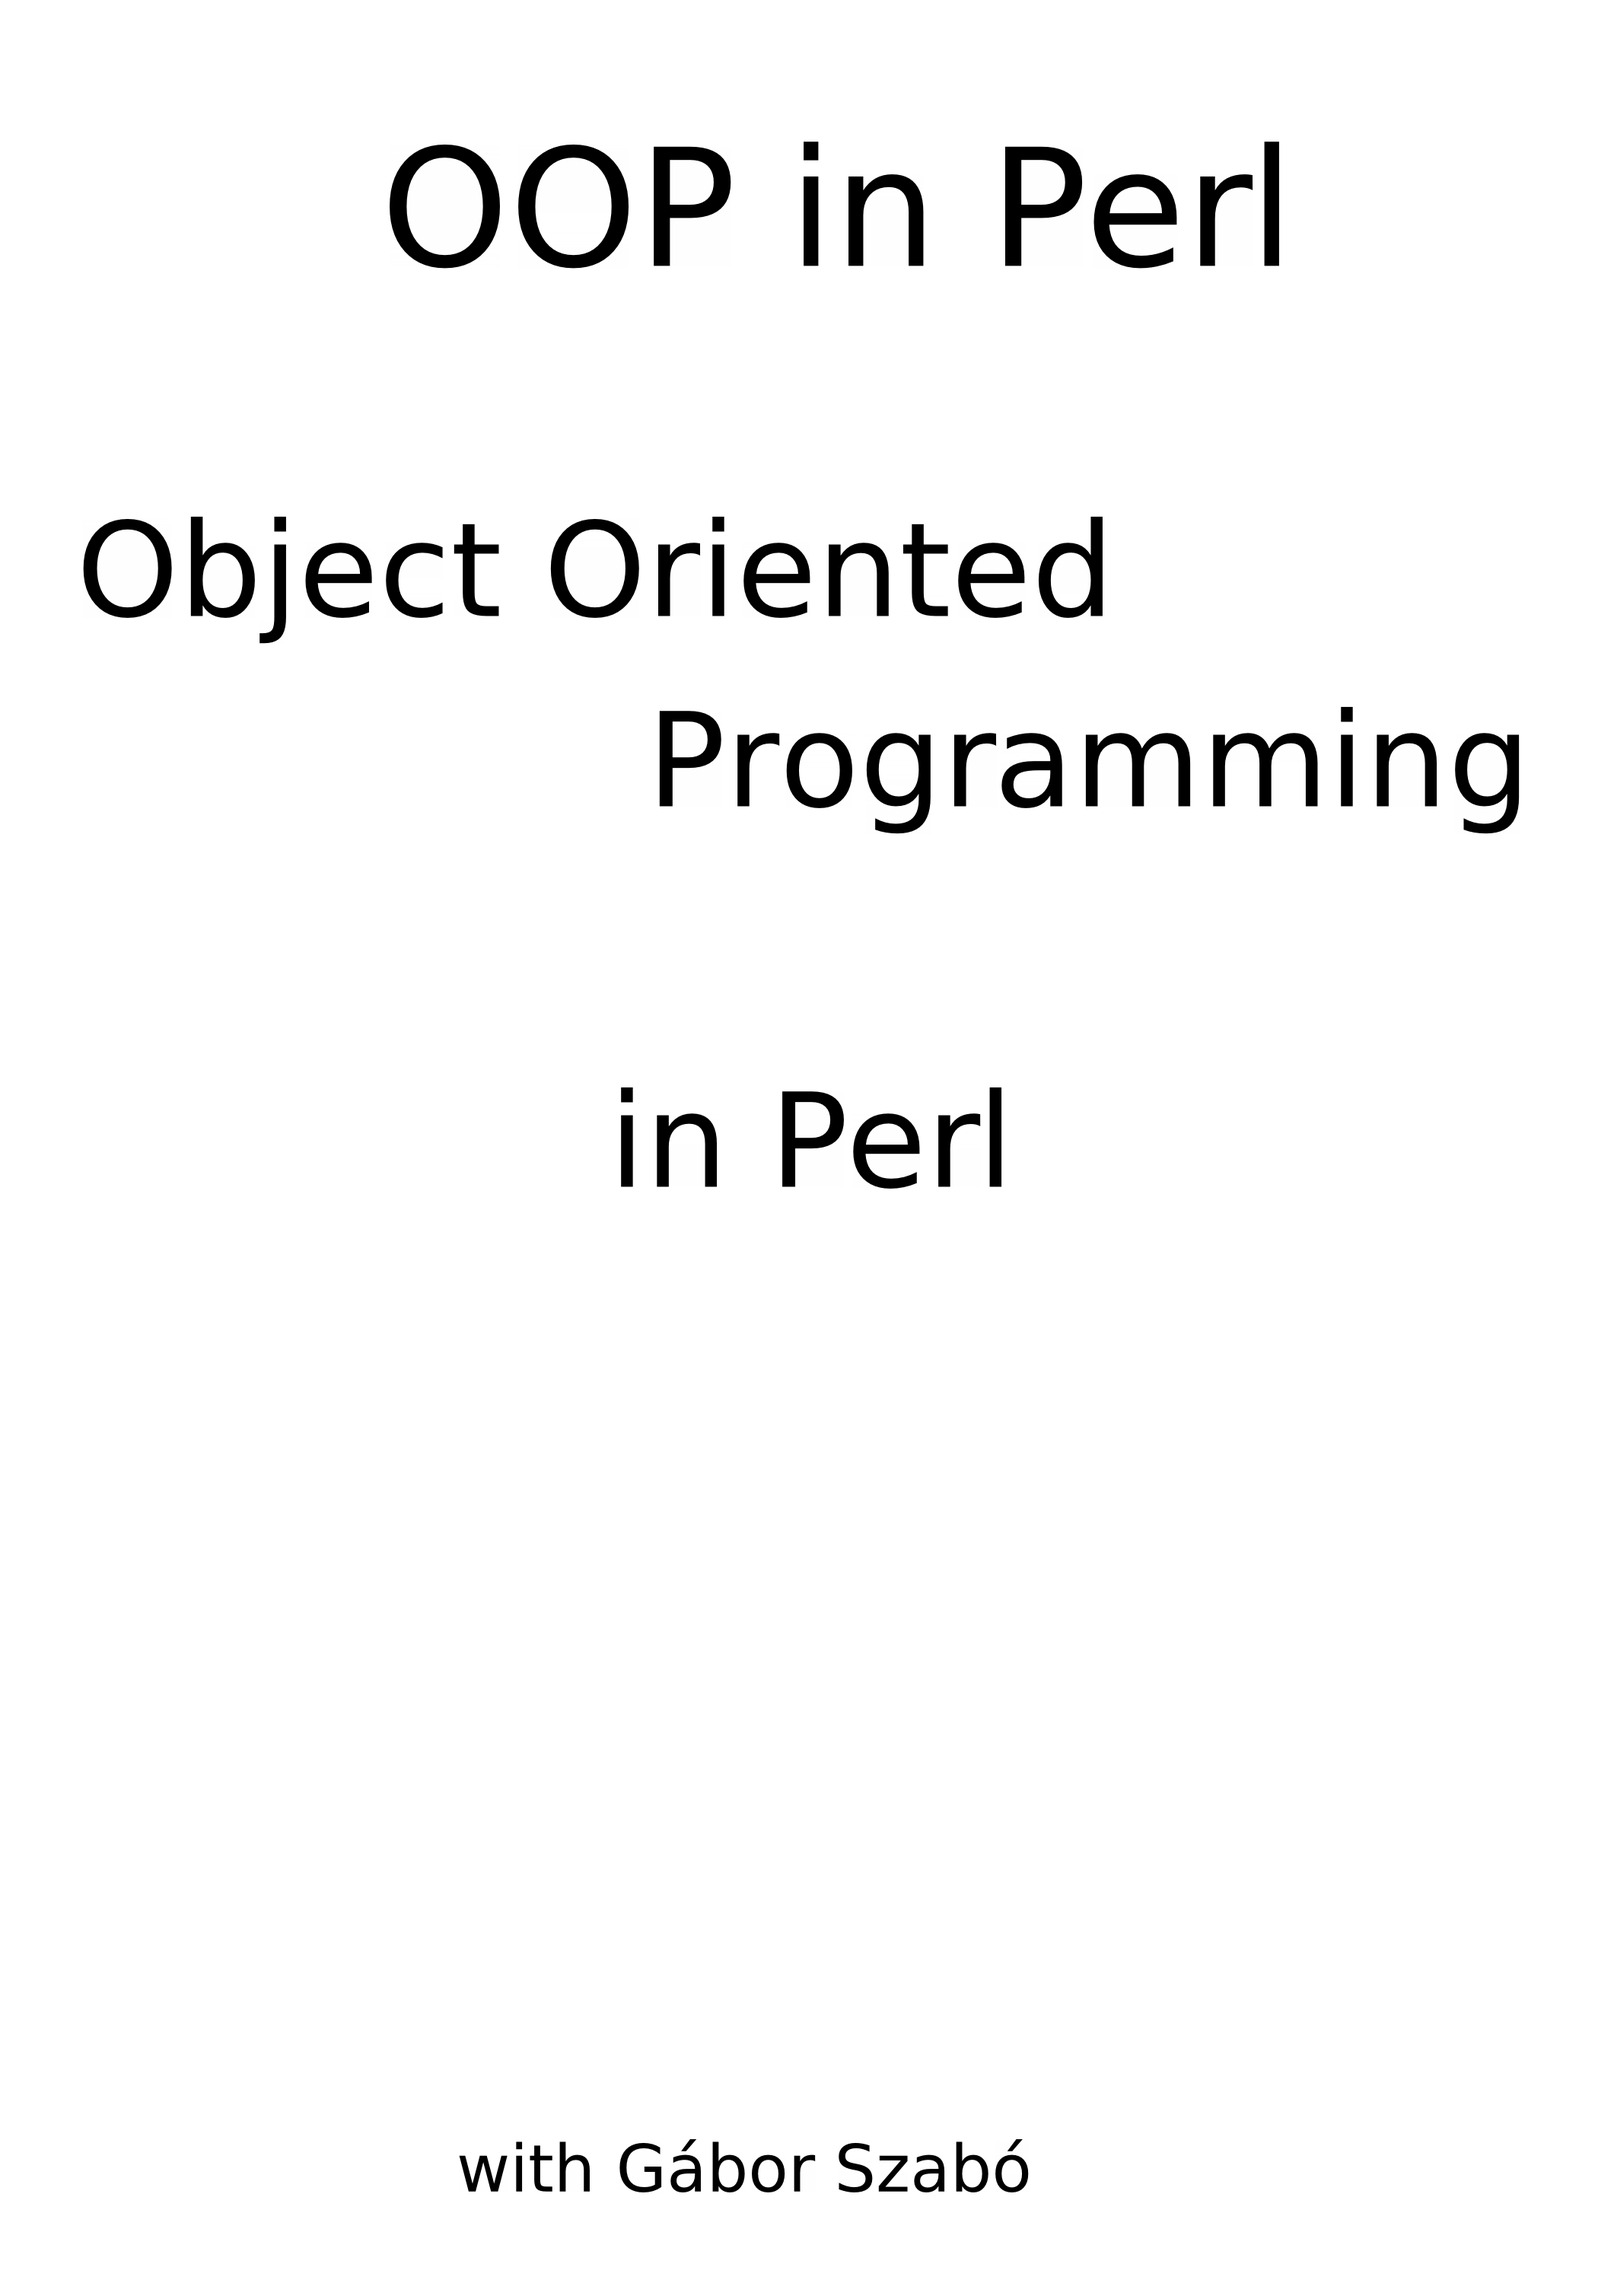
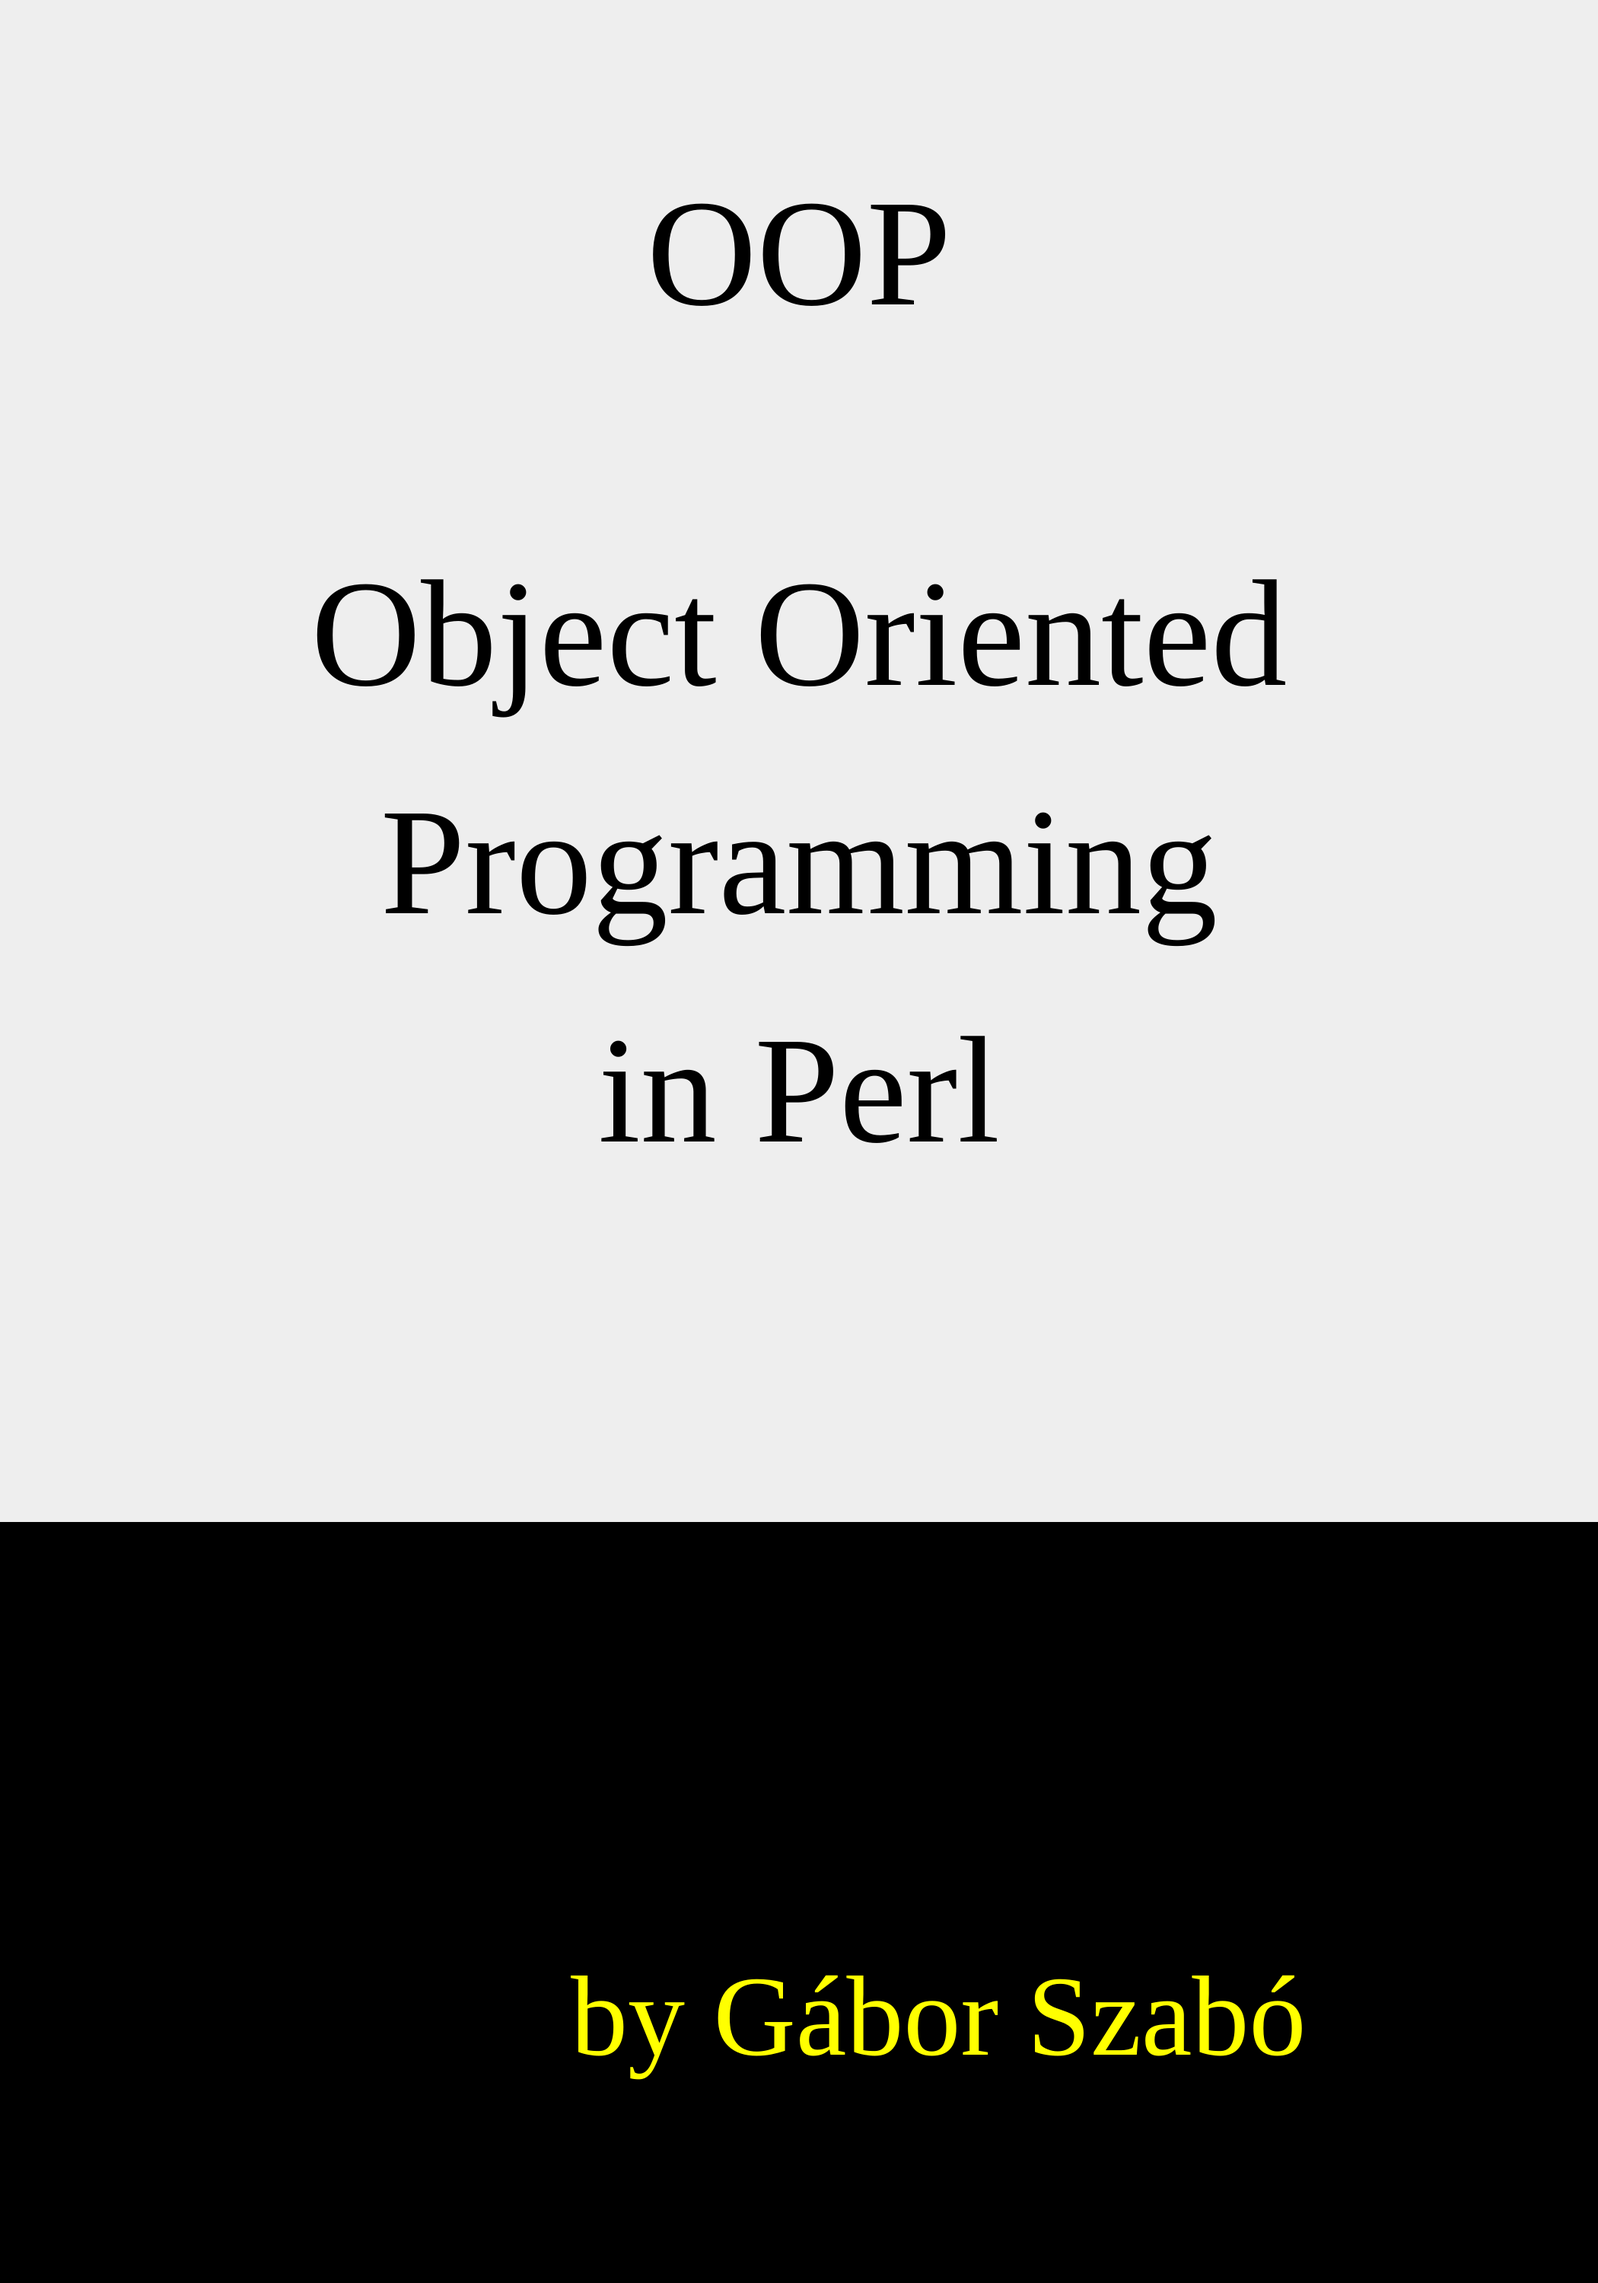
update book title pages

diff --git a/books/svg/src/shapes/image.md b/books/svg/src/shapes/image.md
@@ -1,0 +1,11 @@
+# Embed external image
+
+The `image` tag can be used to embed images. It supports the emebedding of other SVG files and PNG and JPEG images.
+
+Certain features do not work when using the `img` tag to display an SVG file, specifically the embedding of other images in the SVG file using the `image` tag that we'll see later. Using `object` solves this problem.
+
+<object data="../examples/embed-image.svg" type="image/svg+xml"></object>
+
+{% embed include file="src/examples/embed-image.svg" %}
+
+

diff --git a/books/svg/src/SUMMARY.md b/books/svg/src/SUMMARY.md
@@ -22,6 +22,8 @@
     - [Text with letters rotated](./shapes/text-rotated.md)
     - [Rotate the whole text with transform](./shapes/text-transformed.md)
 
+  - [Embed external image](./shapes/image.md)
+
   - [Rectangles](./shapes/rectangles.md)
   - [Square](./shapes/square.md)
   - [Ellipse](./shapes/ellipse.md)
@@ -48,3 +50,4 @@
 
 - [Book cover](./book-covers/index.md)
   - [Functional Programming in Python](./book-covers/python-functional-programming.md)
+  - [OOP in Perl](./book-covers/perl-oop.md)

diff --git a/books/svg/src/book-covers/python-functional-programming.md b/books/svg/src/book-covers/python-functional-programming.md
@@ -1,6 +1,7 @@
-# Book cover
+# Functional Programming in Python
 
-<object data="../examples/book-covers/python-functional-programming.svg" type="image/svg+xml"></object>
+
+![Functional programming in Python](../examples/book-covers/python-functional-programming.svg)
 
 {% embed include file="src/examples/book-covers/python-functional-programming.svg" %}
 

diff --git a/books/svg/src/book-covers/perl-oop.md b/books/svg/src/book-covers/perl-oop.md
@@ -1,0 +1,7 @@
+# OOP in Perl
+
+![OOP in Perl](../examples/book-covers/perl-oop.svg)
+
+{% embed include file="src/examples/book-covers/perl-oop.svg" %}
+
+
